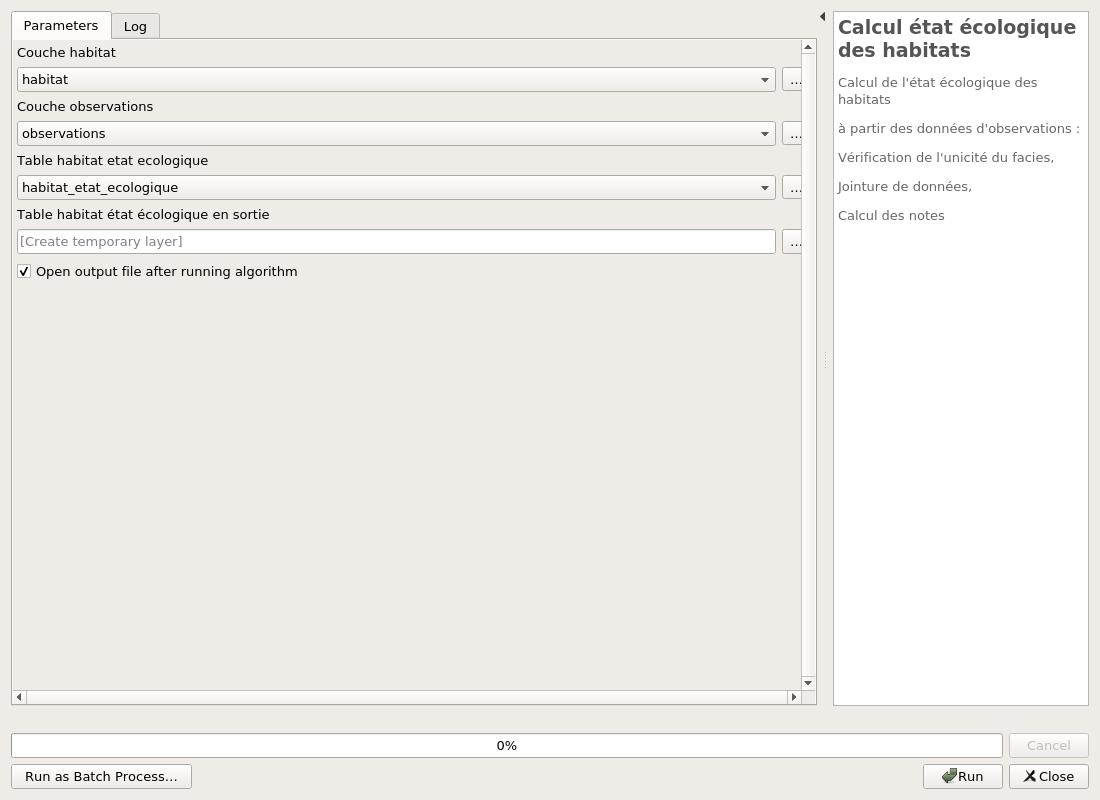
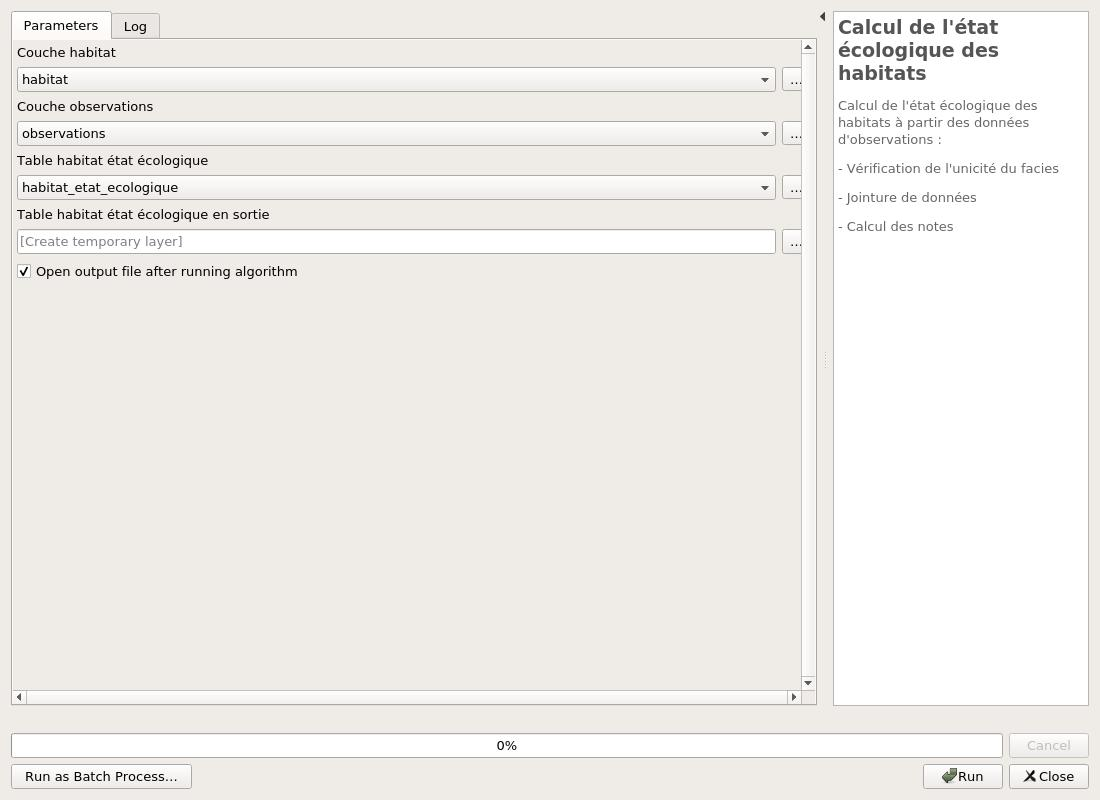
Docs - Update processing doc

Changed region(s): [[0.7418, 0.0, 0.9891, 0.3125]]

diff --git a/docs/processing/README.md b/docs/processing/README.md
@@ -8,13 +8,12 @@ hide:
 ## Calcul
 
 
-### Calcul état écologique des habitats
+### Calcul de l'état écologique des habitats
 
-Calcul de l'état écologique des habitats
-à partir des données d'observations :
-Vérification de l'unicité du facies,
-Jointure de données,
-Calcul des notes
+Calcul de l'état écologique des habitats à partir des données d'observations :
+- Vérification de l'unicité du facies
+- Jointure de données
+- Calcul des notes
 
 ![algo_id](./mercicor-calcul_habitat_etat_ecologique.jpg)
 
@@ -24,7 +23,7 @@ Calcul des notes
 |:-:|:-:|:-:|:-:|:-:|:-:|:-:|
 HABITAT|Couche habitat|VectorLayer||✓||Default: habitat <br> Type: TypeVectorPolygon <br>|
 OBSERVATIONS|Couche observations|VectorLayer||✓||Default: observations <br> Type: TypeVectorPoint <br>|
-HABITAT_ETAT_ECOLOGIQUE|Table habitat etat ecologique|VectorLayer||✓||Default: habitat_etat_ecologique <br> Type: TypeVectorAnyGeometry <br>|
+HABITAT_ETAT_ECOLOGIQUE|Table habitat état écologique|VectorLayer||✓||Default: habitat_etat_ecologique <br> Type: TypeVectorAnyGeometry <br>|
 OUTPUT_LAYER|Table habitat état écologique en sortie|FeatureSink||✓||Type: TypeVectorAnyGeometry <br>|
 
 
